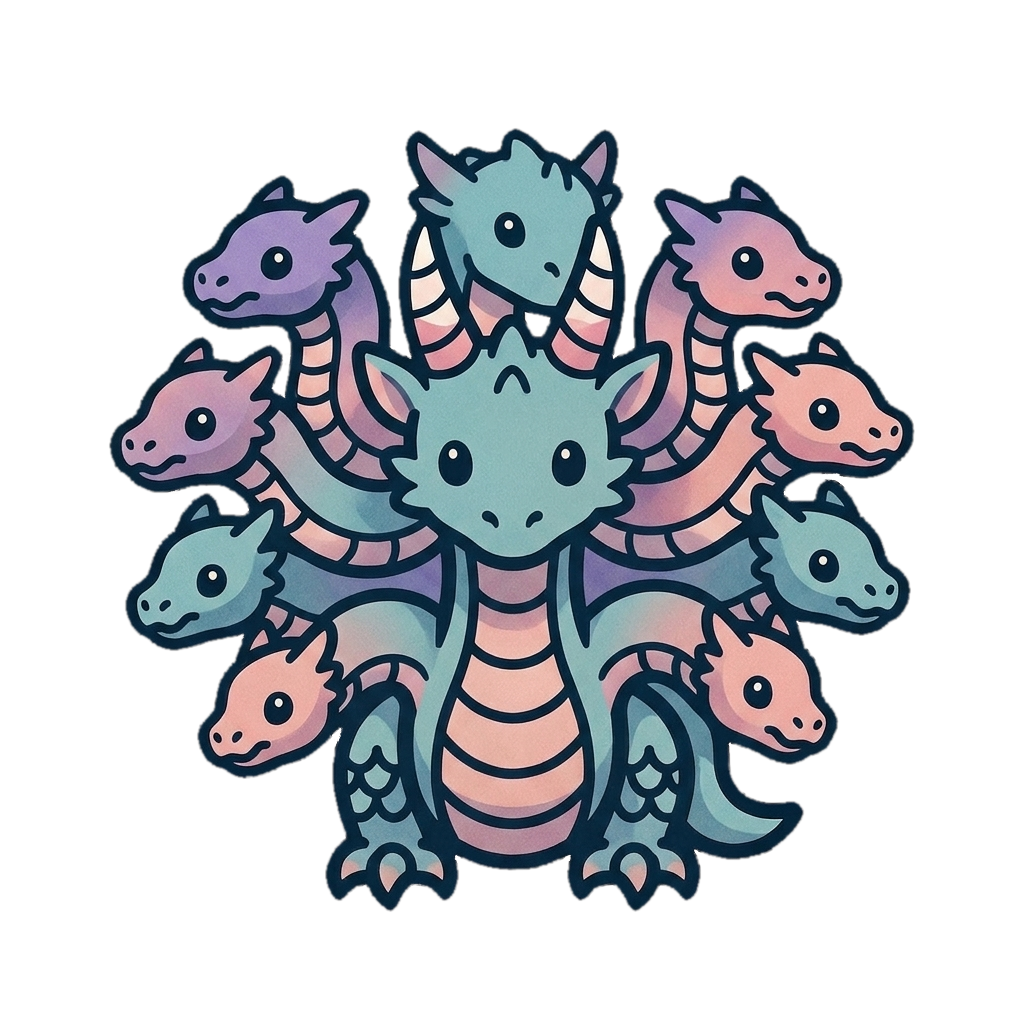
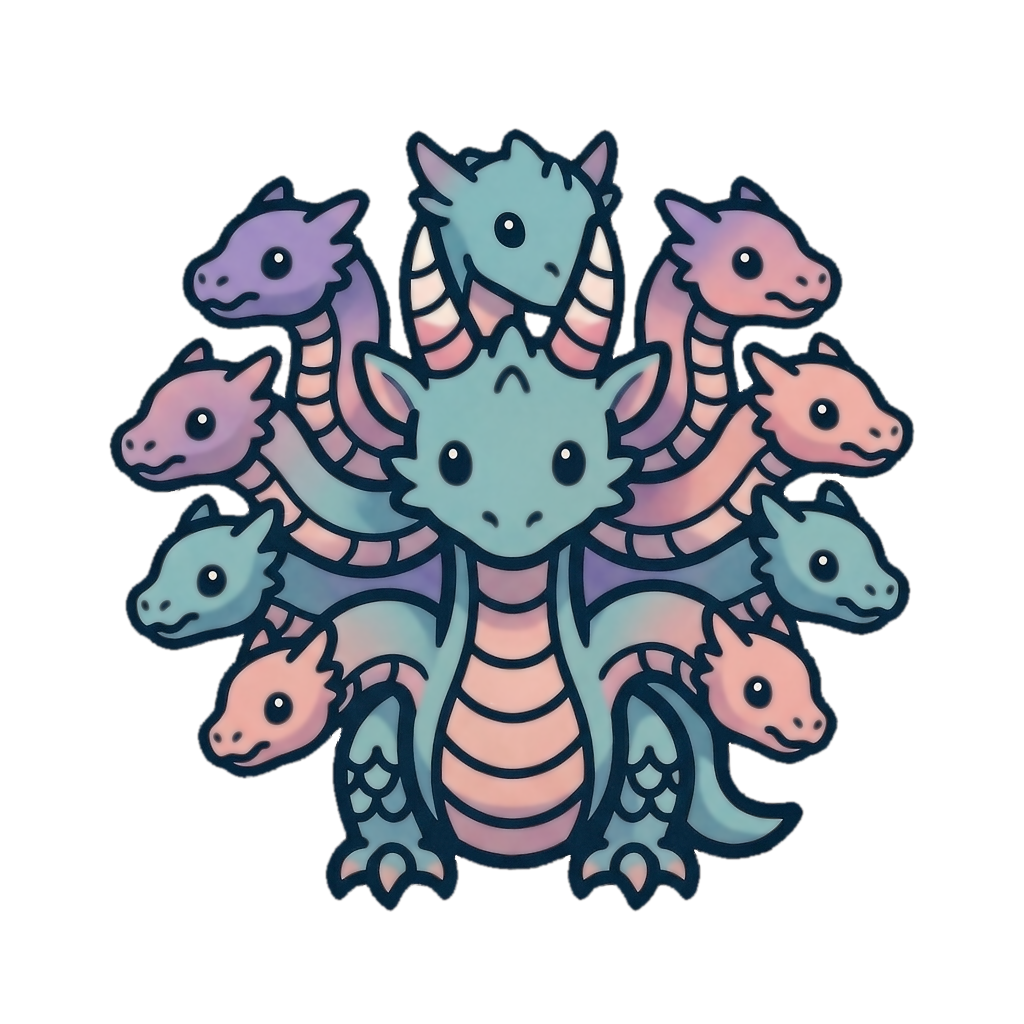
docs

diff --git a/README.md b/README.md
@@ -5,9 +5,9 @@
 MORPH
 </h1>
 
-**MORPH** is a PyTorch research model for **looped transformer** training and sparse deployment. The model reuses a small Parcae-style core for variable depth, stabilizes the repeated core with <a href="docs/references/residual-streams/jpmhc/jpmhc.md">Cayley Hyper-Connection</a>, and trains the MLP stack while pruning low impact weights down to as little as 25% total density before carving it into the MORTAR BCSR runtime. Enabling less than 1% ppl regression and improved memory footprint and training throughput over full density. All while natively quantized trained.
+**MORPH** is a PyTorch research model for **looped transformer** training and sparse deployment. The model reuses a small Parcae-style core for variable depth, stabilizes the repeated core with [Cayley Hyper-Connection](docs/references/residual-streams/jpmhc/jpmhc.md), and trains the MLP stack while pruning low impact weights down to as little as 25% total density before carving it into the MORTAR BCSR runtime. Enabling less than 1% ppl regression and improved memory footprint and training throughput over full density. All while natively quantized trained.
 
-To further improve per bit intelligence and memory foot print for research, it utilizes extensive linear attention methods to enable a lower memory foot print at long contexts. Both GLA and Deepseek CSA/HCA are used, with a convolutional based compression of the kv.
+To further improve per bit intelligence and memory foot print for research, it utilizes extensive linear attention methods to enable a lower memory foot print at long contexts. Both [GLA](docs/references/memory/gla/gla.md) and [DeepSeek CSA/HCA](docs/references/attention/deepseek-v4/deepseek-v4.md) are used, with a convolutional based compression of the kv ([CCA](docs/references/attention/cca/cca.md)).
 
 Extensive ablations have ran through dozens of [papers](docs/references.md) and techniques to carve out the MORPH Architecture. It is the goal of the MORPH project to provide a true open source architecture that stays at the bleeding edge of research.
 
@@ -18,7 +18,7 @@ The PyTorch path is the implementation target. The JAX/Flax mirror under `morph/
 <p align="center">
   <img src="docs/figures/morph_overview.png" alt="MORPH architecture overview: hybrid embeddings into an HC carrier, prelude / looped core / coda, then LM head" width="720" />
 </p>
-<p align="center"><em>Architecture overview — Parcae-style prelude / core loop / coda on a <a href="docs/references/residual-streams/jpmhc/jpmhc.md">Cayley Hyper-Connection</a> carrier, with a gated GLA retention branch on layer 1.</em></p>
+<p align="center"><em>Architecture overview — Parcae-style prelude / core loop / coda on a <a href="docs/references/residual-streams/jpmhc/jpmhc.md">Cayley Hyper-Connection</a> carrier, with a gated <a href="docs/references/memory/gla/gla.md">GLA</a> retention branch on layer 1.</em></p>
 
 ## TUL: Thought Unpack Loop (merged, OFF by default)
 
